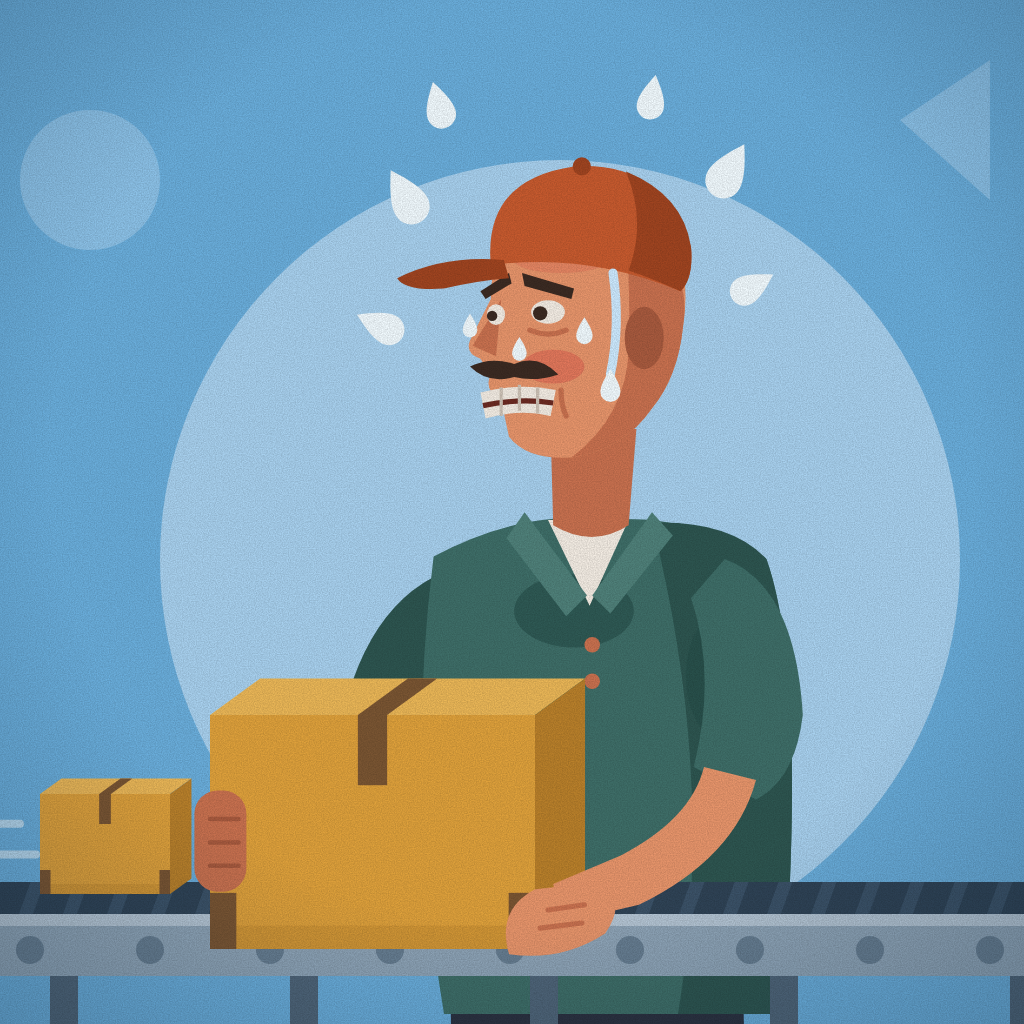
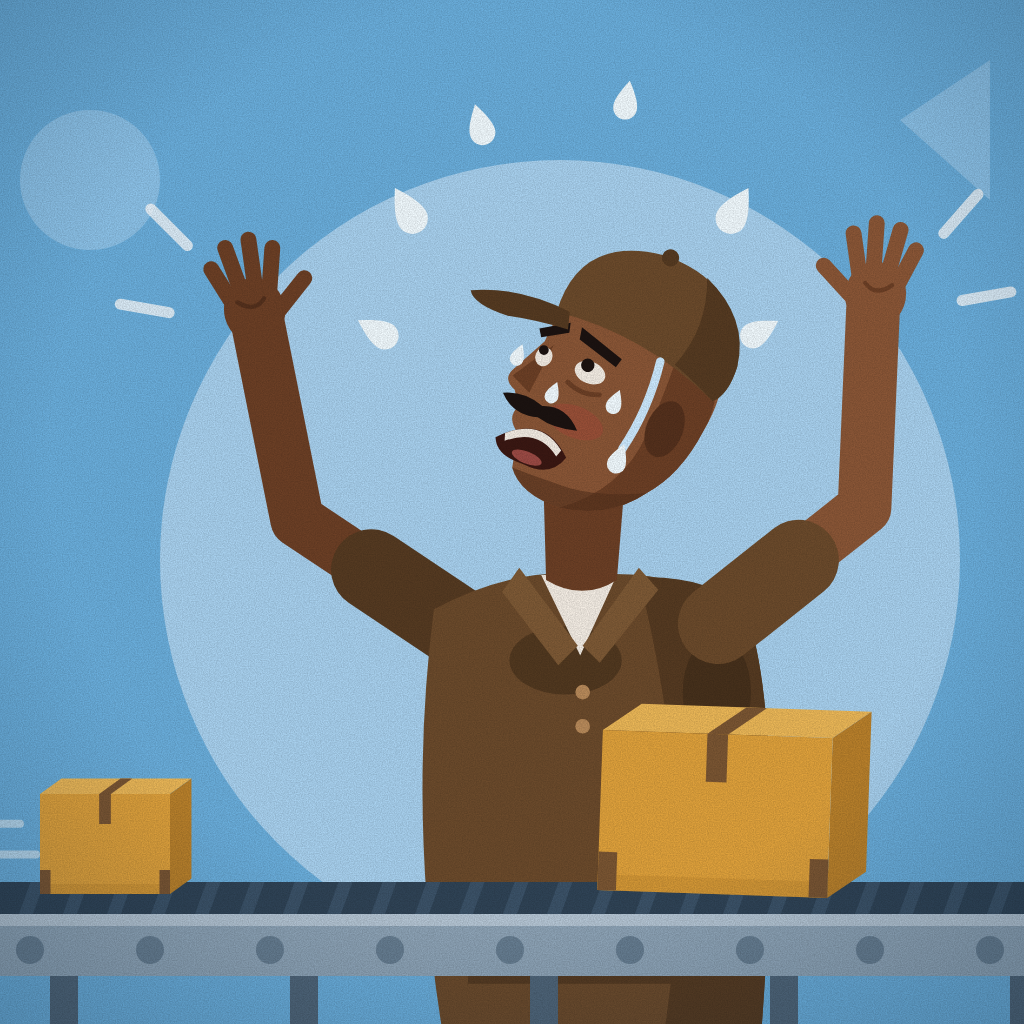
Give the Preload worker brown skin, a brown uniform and a frustrated pose
Head tipped back looking up, both hands thrown up, mouth open in a groan.
The box he was holding now rides the belt in front of him.

Claude-Session: https://claude.ai/code/session_01WatR7HZs1msEFRyDMCsuWq

diff --git a/PreloadGame-Assets/src/generate.js b/PreloadGame-Assets/src/generate.js
@@ -11,11 +11,11 @@ const FONT = fs.readFileSync(path.join(__dirname, 'Lexend-Bold.ttf')).toString('
 const C = {
   bg: '#6aaedc', bgDeep: '#5a9fd0', blob: '#a8d1ef', blobSoft: '#8cc2e8',
   navy: '#1f3b4f',
-  skin: '#e8956b', skinShade: '#c9714f', skinDeep: '#a85a3e', flush: '#dd5f4f',
-  hair: '#3b2a22',
-  shirt: '#3e6e68', shirtShade: '#2d5550', shirtLight: '#4f817a', sweatPatch: '#28504b',
-  tee: '#f4ede4', pants: '#2b3140', boot: '#4a3426',
-  cap: '#c75a2e', capShade: '#a04420',
+  skin: '#8a5636', skinShade: '#6c3f25', skinDeep: '#54301c', flush: '#a8473a',
+  hair: '#1b1210', mouth: '#3a1712',
+  shirt: '#6b4a2b', shirtShade: '#553a21', shirtLight: '#7d5935', sweatPatch: '#46301b', button: '#b88a5a',
+  tee: '#f4ede4', pants: '#5a3f25', boot: '#2b1d14',
+  cap: '#6b4a2b', capShade: '#553a21',
   box: '#dfa13b', boxSide: '#b9802a', boxTop: '#ebb757', tape: '#7a5532',
   sweat: '#f2fbff', sweatBlue: '#cdeaff',
   beltTop: '#2f4356', beltStripe: '#3b5268', rail: '#8ea4b7', railLight: '#b5c6d5',
@@ -43,74 +43,86 @@ function box(x, y, w, h, { rot = 0, d = 0.3, tape = true } = {}) {
   return s + '</g>';
 }
 
-// The worker, turned three-quarters to the left, hoisting a box off the belt.
-// Origin = base of the neck.
+// Open hand at the wrist (x, y), fingers splayed toward `angle` (degrees, 0 = up).
+function hand(x, y, angle, color, lineColor, flip = 1) {
+  let s = `<g transform="translate(${x} ${y}) rotate(${angle}) scale(${flip} 1)">`;
+  for (const [fx, fy, len, a] of [[-16, -26, 34, -18], [-5, -30, 40, -6], [7, -30, 38, 6], [17, -25, 30, 18]])
+    s += `<path d="M${fx} ${fy} l${Math.sin(a * Math.PI / 180) * len} ${-Math.cos(a * Math.PI / 180) * len}" stroke="${color}" stroke-width="13" stroke-linecap="round"/>`;
+  s += `<path d="M-20 -8 l-26 -20" stroke="${color}" stroke-width="13" stroke-linecap="round"/>`;
+  s += `<ellipse cx="0" cy="-12" rx="25" ry="27" fill="${color}"/>`;
+  s += `<path d="M-10 -20 Q0 -10 12 -22" stroke="${lineColor}" stroke-width="3.5" fill="none" stroke-linecap="round"/>`;
+  return s + '</g>';
+}
+
+// Arm from shoulder through elbow to wrist: short sleeve, then bare arm, then an open hand.
+function arm([sx, sy], [ex, ey], [wx, wy], shirt, skin, line, handAngle, flip) {
+  const mx = sx + (ex - sx) * 0.55, my = sy + (ey - sy) * 0.55;
+  let s = `<path d="M${mx} ${my} L${ex} ${ey} L${wx} ${wy}" stroke="${skin}" stroke-width="44" stroke-linecap="round" stroke-linejoin="round" fill="none"/>`;
+  s += `<path d="M${sx} ${sy} L${mx} ${my}" stroke="${shirt}" stroke-width="66" stroke-linecap="round" fill="none"/>`;
+  return s + hand(wx, wy, handAngle, skin, line, flip);
+}
+
+// The worker, three-quarters to the left, head thrown back and both hands up in
+// frustration. Origin = base of the neck.
 function worker() {
   let s = '<g>';
   // legs (mostly hidden behind the belt)
   s += `<path d="M-115 360 L110 360 L120 760 L30 760 L5 470 L-20 760 L-110 760 Z" fill="${C.pants}"/>`;
   s += `<path d="M-125 740 h105 v40 h-130 q-5 -40 25 -40 Z M25 740 h105 q25 0 25 40 h-130 Z" fill="${C.boot}"/>`;
-  // far arm (behind the torso), reaching to the far side of the box
-  s += `<path d="M-120 40 Q-190 70 -205 190 L-150 200 Q-140 110 -95 80 Z" fill="${C.shirtShade}"/>`;
-  s += `<path d="M-200 175 Q-235 250 -255 300 L-215 318 Q-190 260 -158 190 Z" fill="${C.skinShade}"/>`;
+  // far arm, behind the torso
+  s += arm([-105, 45], [-240, -45], [-272, -205], C.shirtShade, C.skinShade, C.skinDeep, -14, -1);
   // torso
   s += `<path d="M-128 28 Q-60 -8 0 0 Q70 -6 128 30 Q160 120 140 380 L-120 380 Q-150 200 -128 28 Z" fill="${C.shirt}"/>`;
   s += `<path d="M40 2 Q100 0 128 30 Q160 120 140 380 L60 380 Q90 200 40 2 Z" fill="${C.shirtShade}"/>`;
-  s += `<ellipse cx="96" cy="120" rx="30" ry="50" fill="${C.sweatPatch}"/>`;
+  s += `<ellipse cx="104" cy="96" rx="28" ry="46" fill="${C.sweatPatch}"/>`;
   s += `<ellipse cx="-20" cy="70" rx="46" ry="28" fill="${C.sweatPatch}" opacity=".7"/>`;
+  s += `<path d="M-100 330 L120 330" stroke="${C.shirtShade}" stroke-width="10"/>`;
   // undershirt V, collar, buttons
   s += `<path d="M-40 0 L-8 66 L22 0 Z" fill="${C.tee}"/>`;
   s += `<path d="M-58 -6 L-10 58 L-26 74 L-72 14 Z" fill="${C.shirtLight}"/><path d="M40 -6 L-6 58 L8 72 L56 12 Z" fill="${C.shirtLight}"/>`;
-  s += `<circle cx="-6" cy="96" r="6" fill="${C.skinShade}"/><circle cx="-6" cy="124" r="6" fill="${C.skinShade}"/>`;
+  s += `<circle cx="-6" cy="96" r="6" fill="${C.button}"/><circle cx="-6" cy="124" r="6" fill="${C.button}"/>`;
+  // near arm, in front of the torso
+  s += arm([105, 40], [225, -55], [232, -218], C.shirt, C.skin, C.skinShade, 10, 1);
   // neck
   s += `<path d="M-38 -70 L28 -70 L22 4 Q-6 22 -36 4 Z" fill="${C.skinShade}"/>`;
-  // head
+  // head, tipped back to look up
+  s += `<g transform="rotate(22 -5 -60)">`;
   s += `<path d="M-60 -238 Q-10 -262 44 -232 Q72 -200 64 -150 Q60 -110 40 -86 Q18 -54 -22 -48 Q-56 -46 -70 -64 L-76 -92 Q-90 -100 -84 -112 L-92 -124 Q-104 -128 -100 -138 L-84 -170 Q-84 -208 -60 -238 Z" fill="${C.skin}"/>`;
   s += `<path d="M18 -230 Q72 -200 64 -150 Q60 -110 40 -86 Q18 -54 -22 -48 Q20 -80 22 -130 Q24 -190 18 -230 Z" fill="${C.skinShade}"/>`;
   s += `<ellipse cx="34" cy="-140" rx="15" ry="24" fill="${C.skinDeep}"/>`;
-  s += `<ellipse cx="-36" cy="-118" rx="24" ry="13" fill="${C.flush}" opacity=".55"/>`;
-  s += `<ellipse cx="-30" cy="-200" rx="36" ry="10" fill="${C.flush}" opacity=".3"/>`;
+  s += `<ellipse cx="-36" cy="-118" rx="24" ry="13" fill="${C.flush}" opacity=".45"/>`;
+  // short beard shadow along the jaw
+  s += `<path d="M-70 -64 Q-56 -46 -22 -48 Q18 -54 40 -86 Q10 -70 -20 -66 Q-50 -64 -70 -64 Z" fill="${C.skinDeep}" opacity=".6"/>`;
   // nose shadow
   s += `<path d="M-76 -170 L-98 -134 L-80 -126 Z" fill="${C.skinShade}"/>`;
-  // worried brows (inner ends raised)
-  s += `<path d="M-60 -190 L-20 -178 L-22 -170 L-58 -180 Z" fill="${C.hair}"/>`;
-  s += `<path d="M-92 -176 L-70 -190 L-68 -182 L-88 -170 Z" fill="${C.hair}"/>`;
-  // eyes, darting toward the incoming boxes
-  s += `<ellipse cx="-40" cy="-160" rx="13" ry="9" fill="${C.tee}"/><circle cx="-46" cy="-159" r="5.5" fill="${C.hair}"/>`;
-  s += `<ellipse cx="-80" cy="-158" rx="7" ry="8" fill="${C.tee}"/><circle cx="-83" cy="-157" r="4" fill="${C.hair}"/>`;
+  // exasperated brows (inner ends raised)
+  s += `<path d="M-60 -192 L-20 -180 L-22 -172 L-58 -182 Z" fill="${C.hair}"/>`;
+  s += `<path d="M-92 -178 L-70 -192 L-68 -184 L-88 -172 Z" fill="${C.hair}"/>`;
+  // eyes rolled up toward the ceiling
+  s += `<ellipse cx="-40" cy="-160" rx="13" ry="9" fill="${C.tee}"/><circle cx="-44" cy="-165" r="5.5" fill="${C.hair}"/>`;
+  s += `<ellipse cx="-80" cy="-158" rx="7" ry="8" fill="${C.tee}"/><circle cx="-82" cy="-163" r="4" fill="${C.hair}"/>`;
   s += `<path d="M-54 -146 Q-40 -140 -26 -146" stroke="${C.skinShade}" stroke-width="4" fill="none" stroke-linecap="round"/>`;
-  // grimace: open mouth, clenched teeth, mustache on top
-  s += `<path d="M-92 -98 Q-62 -106 -34 -100 L-38 -80 Q-62 -86 -88 -78 Z" fill="${C.tee}"/>`;
-  s += `<path d="M-90 -88 Q-62 -94 -36 -90" stroke="#6c2a22" stroke-width="4" fill="none"/>`;
-  s += `<path d="M-76 -102 V-80 M-62 -104 V-84 M-48 -102 V-82" stroke="#cfc4b8" stroke-width="2.5"/>`;
-  s += `<path d="M-30 -100 Q-30 -88 -26 -80" stroke="${C.skinShade}" stroke-width="4" fill="none" stroke-linecap="round"/>`;
+  // mouth open in a groan, mustache on top
+  s += `<path d="M-92 -82 Q-62 -116 -32 -88 Q-38 -68 -62 -70 Q-86 -68 -92 -82 Z" fill="${C.mouth}"/>`;
+  s += `<path d="M-86 -88 Q-62 -110 -38 -92 L-40 -86 Q-62 -102 -84 -82 Z" fill="${C.tee}"/>`;
+  s += `<ellipse cx="-62" cy="-76" rx="13" ry="5" fill="#9b4a44"/>`;
   s += `<path d="M-100 -118 Q-84 -126 -66 -120 Q-48 -128 -32 -112 Q-50 -106 -66 -110 Q-86 -104 -100 -118 Z" fill="${C.hair}"/>`;
-  // cap with the bill pointing at the belt
+  // cap
   s += `<path d="M-84 -196 Q-90 -262 -20 -272 Q50 -276 70 -210 Q72 -186 62 -176 Q-10 -206 -84 -196 Z" fill="${C.cap}"/>`;
   s += `<path d="M20 -268 Q64 -250 70 -210 Q72 -186 62 -176 Q40 -186 22 -192 Q36 -230 20 -268 Z" fill="${C.capShade}"/>`;
   s += `<path d="M-74 -200 Q-120 -204 -156 -186 Q-150 -176 -120 -178 Q-96 -184 -70 -186 Z" fill="${C.capShade}"/>`;
   s += `<circle cx="-14" cy="-272" r="7" fill="${C.capShade}"/>`;
-  // sweat: beads, a trickle and drops flying off
+  // sweat on the face
   s += `<path d="M10 -190 Q16 -150 8 -112" stroke="${C.sweatBlue}" stroke-width="7" fill="none" stroke-linecap="round"/>`;
-  s += drop(8, -104, 0.55) + drop(-12, -146, 0.45) + drop(-62, -132, 0.4) + drop(-100, -150, 0.4);
-  s += drop(-150, -250, 1, -30) + drop(-170, -150, 0.85, -65) + drop(-124, -320, 0.8, -15);
-  s += drop(100, -270, 1, 30) + drop(118, -180, 0.8, 60) + drop(40, -326, 0.75, 10);
+  s += drop(8, -104, 0.55) + drop(-12, -146, 0.45) + drop(-62, -134, 0.4) + drop(-100, -152, 0.4);
+  s += '</g>';
+  // drops flying off
+  s += drop(-150, -300, 0.9, -30) + drop(-175, -200, 0.8, -60) + drop(-90, -370, 0.75, -15);
+  s += drop(120, -300, 0.9, 30) + drop(140, -200, 0.75, 60) + drop(30, -390, 0.7, 10);
+  // frustration marks by the hands
+  for (const [x1, y1, x2, y2] of [[-330, -270, -360, -300], [-345, -215, -385, -222], [290, -280, 318, -312], [305, -225, 345, -232]])
+    s += `<path d="M${x1} ${y1} L${x2} ${y2}" stroke="#ffffff" stroke-width="9" stroke-linecap="round" opacity=".75"/>`;
   return s + '</g>';
-}
-
-// Near arm + box drawn in front of the torso, separate so the belt can sit between.
-function workerFront() {
-  let s = '';
-  s += box(-300, 330, 250, 180, { d: 0.28 });
-  // far hand gripping the left edge
-  s += `<rect x="-312" y="208" width="40" height="78" rx="18" fill="${C.skinShade}"/>`;
-  s += `<path d="M-300 230 h22 M-300 248 h22 M-300 266 h22" stroke="${C.skinDeep}" stroke-width="3.5" stroke-linecap="round"/>`;
-  // near arm: sleeve, forearm, hand under the box
-  s += `<path d="M96 30 Q150 50 156 150 Q150 200 120 215 L72 190 Q90 120 70 60 Z" fill="${C.shirt}"/>`;
-  s += `<path d="M120 200 Q104 260 30 296 L-30 310 L-36 280 L16 258 Q70 230 80 190 Z" fill="${C.skin}"/>`;
-  s += `<path d="M-70 334 Q-80 300 -50 284 L4 278 Q20 296 4 318 Q-30 340 -70 334 Z" fill="${C.skin}"/>`;
-  s += `<path d="M-40 300 L-12 296 M-46 314 L-14 310" stroke="${C.skinShade}" stroke-width="4" stroke-linecap="round"/>`;
-  return s;
 }
 
 function conveyor(x0, x1, y, floorY) {
@@ -162,7 +174,7 @@ function homeScreen(withTitle) {
   // worker behind the belt
   s += `<g transform="translate(600 890) scale(1.1)">${worker()}</g>`;
   s += conveyor(-20, W + 20, beltY, floorY + 10);
-  s += `<g transform="translate(600 890) scale(1.1)">${workerFront()}</g>`;
+  s += speed(470, beltY - 18, 140) + box(470, beltY - 6, 210, 150, { rot: -2 });
   // boxes speeding in from the left, more piling up on the right
   s += speed(40, beltY - 18, 120) + box(30, beltY - 6, 150, 120);
   s += speed(250, beltY - 18, 90, 2) + box(240, beltY - 6, 110, 90, { rot: -3 });
@@ -190,10 +202,9 @@ function appIcon() {
   s += `<rect width="${S}" height="${S}" fill="${C.bg}"/>`;
   s += `<circle cx="560" cy="560" r="400" fill="${C.blob}"/>`;
   s += `<circle cx="90" cy="180" r="70" fill="${C.blobSoft}"/><path d="M900 120 L990 60 L990 200 Z" fill="${C.blobSoft}"/>`;
-  s += `<g transform="translate(600 520) scale(1.3)">${worker()}</g>`;
+  s += `<g transform="translate(590 575) scale(1.22)">${worker()}</g>`;
   s += conveyor(-20, S + 20, 900, 1100);
-  s += `<g transform="translate(600 520) scale(1.3)">${workerFront()}</g>`;
-  s += speed(70, 882, 110, 2) + box(40, 894, 130, 100);
+  s += speed(70, 882, 110, 2) + box(40, 894, 130, 100) + box(600, 894, 230, 160, { rot: 2 });
   s += grain(S, S, 0.14);
   return s + '</svg>';
 }
